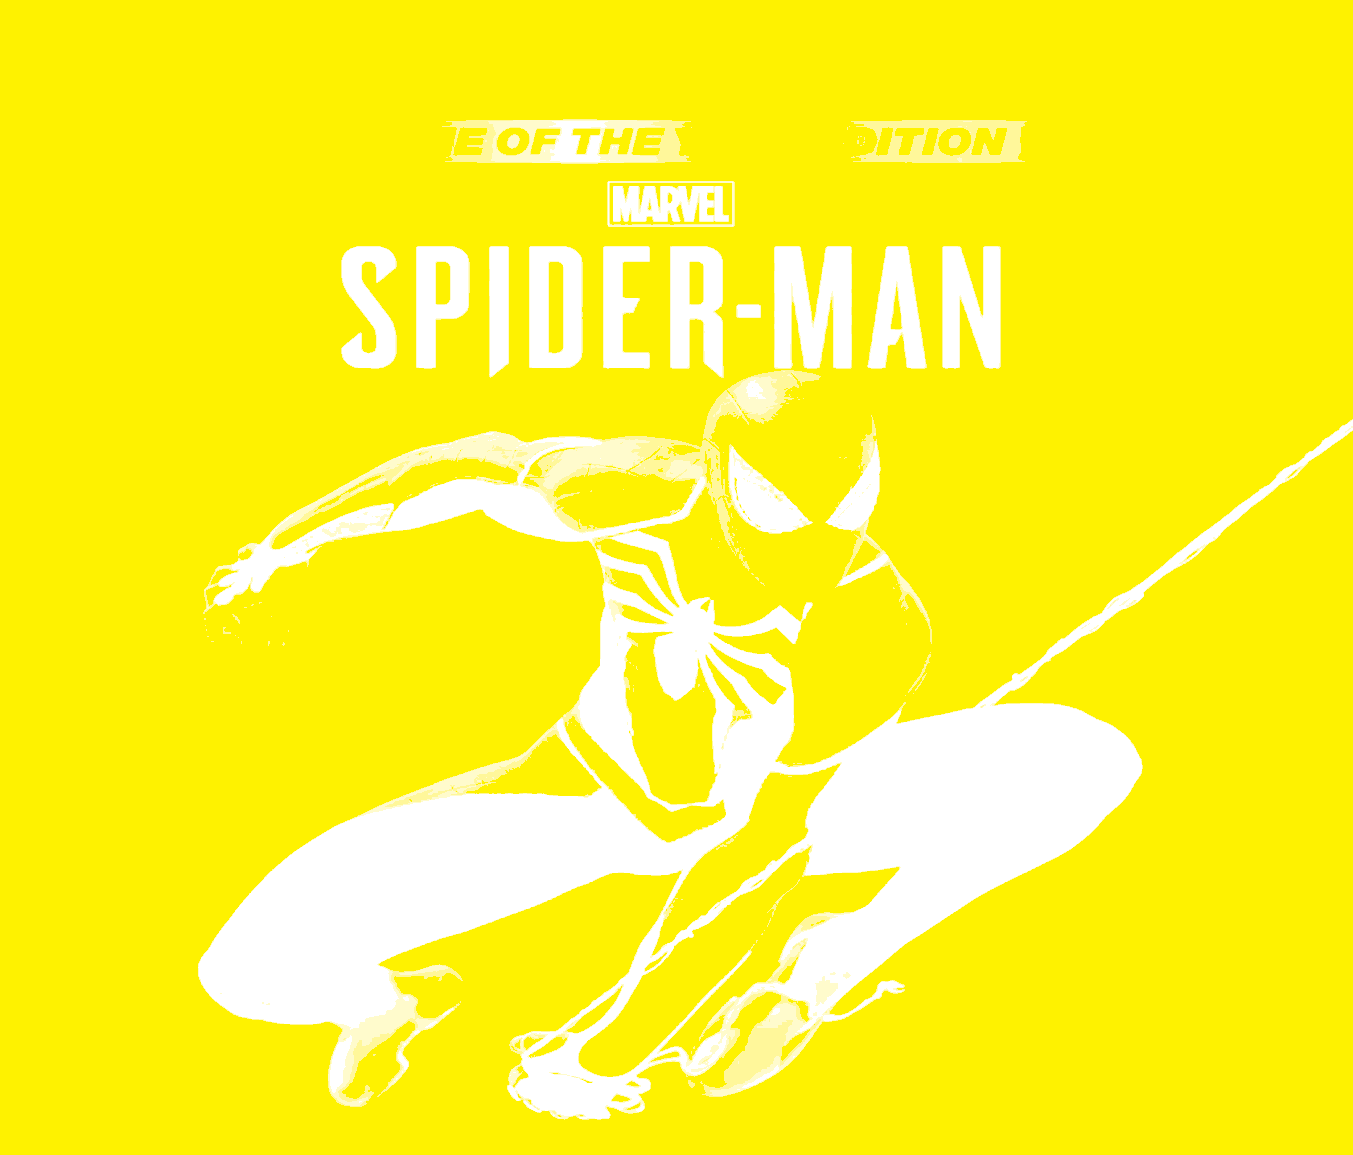
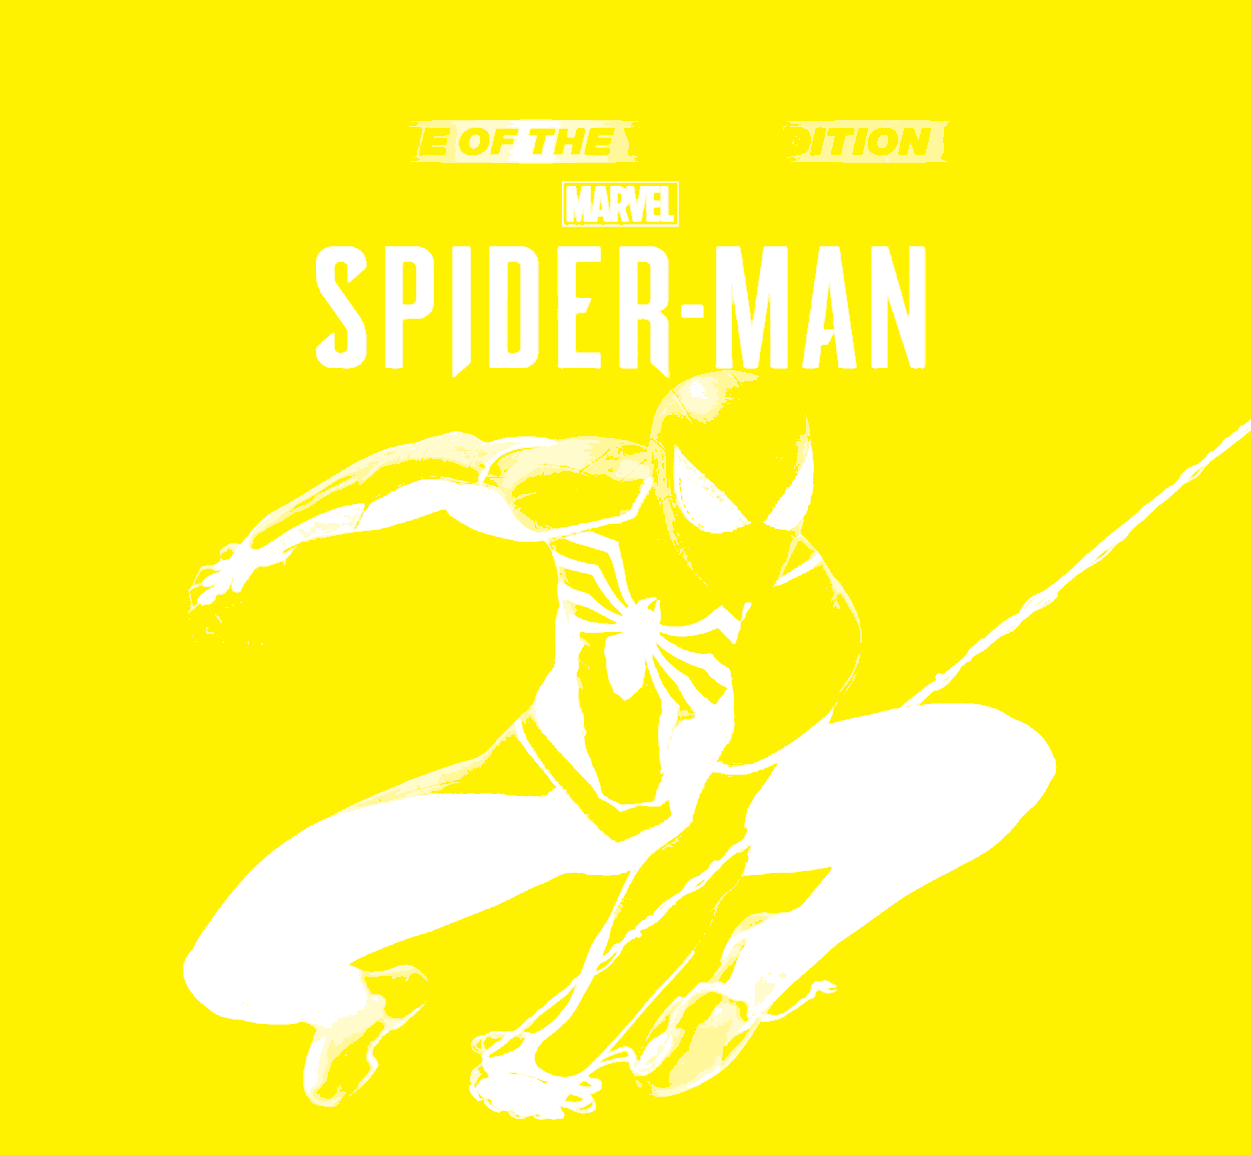
Add outline, grey shade, and adjust screen size

Changed region(s): [[0.4988, 0.4052, 0.5612, 0.4364], [0.3741, 0.9039, 0.4053, 0.9351]]

diff --git a/README.md b/README.md
@@ -1,47 +1,93 @@
 # Ben-Day-Dots-Shading
-My attempt to achieve ben-day dots effect in comic book.
 
-|  | Yellow | Magenta | Cyan | Black |
-| :---: | :---: | :---: | :---: | :---: |
-| Single | ![yellow single pass](images/super-man/yellow.png) | ![magenta single pass](images/super-man/magenta.png) | ![cyan single pass](images/super-man/cyan.png) | ![black single pass](images/super-man/black.png) |
-| Progressive | ![yellow single pass](images/super-man/yellow.png) | ![magenta single pass](images/super-man/magenta-p.png) | ![cyan single pass](images/super-man/cyan-p.png) | ![black single pass](images/super-man/black-p.png) |
+## Introduction
 
-## Features
-### [Paper texture](shaders/paper.glsl)
+I came across a series of great articles written by [Legion of Andy](https://legionofandy.com/) describing the history of [Ben Day Dots](https://en.wikipedia.org/wiki/Ben_Day_process), where they were used as a cheap and efficient way to print colors in the newspapers and comic books in the 20th century. So I decided to program it to achieve the same effect over the weekend.
 
-| Before | After |
-| :---: | :---: |
-| ![Before](images/super-man/black-p.png) | ![After](images/super-man/blend-paper.png) |
+|<img src="https://legionofandy.files.wordpress.com/2016/08/panel-screener.jpg" alt="Prince Valiant" width="600">|
+|:---:|
+|*(Image credit: © [Legion of Andy](https://legionofandy.com/))*|
+
+The following diagram is an [experiment](https://legionofandy.com/2016/08/26/ben-day-dots-part-8-1930s-to-1950s-the-golden-age-of-comics/) introduced in Andy's blog (thank you, Andy)! In the old-time, artists will need to prepare 4 versions of the painting in order to print them, one color for each version, i.e. yellow, magenta, cyan, and black. If we print them into the paper in order, we will get a multi-color painting. The first row is what each version looks like, the second column shows the progressive result that we would expect.
+
+|  | Yellow | Magenta | Cyan | Black | Paper texture |
+| :---: | :---: | :---: | :---: | :---: | :---: |
+| Separated | ![yellow single pass](images/super-man/yellow.png) | ![magenta single pass](images/super-man/magenta.png) | ![cyan single pass](images/super-man/cyan.png) | ![black single pass](images/super-man/black.png) | ![After](images/paper.png) |
+| Progressive | ![yellow single pass](images/super-man/yellow.png) | ![magenta single pass](images/super-man/magenta-p.png) | ![cyan single pass](images/super-man/cyan-p.png) | ![black single pass](images/super-man/black-p.png) | ![After](images/super-man/blend-paper.png) |
+
+With only 4 colors (cyan, magenta, yellow, and black, [CMYK](https://en.wikipedia.org/wiki/CMYK_color_model) for short), we can only achieve a total of 7 colors (3 primary colors, 3 secondaries, and black).
+
+|<img src="https://upload.wikimedia.org/wikipedia/commons/thumb/c/c9/CMYK_subtractive_color_mixing.svg/1920px-CMYK_subtractive_color_mixing.svg.png" alt="CMYK" width="200">|
+|:---:|
+|*(Image credit: © [Wikipedia](https://en.wikipedia.org/wiki/CMYK_color_model))*|
+
+Here is where the magic of Ben Day Dots comes in, by printing patterns of various sizes and spacings of dots, artists can control the shade of the color, thus creating more variation of shade. Later I will create the light color (about 25%) with dots, dark color (about 50%) with lines, and solid color (100%) for each primary color.
 
 
-### [Flat shading](shaders/separate.glsl)
+| <img src="https://legionofandy.files.wordpress.com/2015/07/ben-day-patterns-dalgin-p-21-72dpi.jpg" alt="CMYK" width="600"> |<img src="https://legionofandy.files.wordpress.com/2016/08/how-to-color-comics-the-marvel-way_64c_screener.jpg" alt="CMYK" width="400">|
+|:---:| :---: |
+|*(Image credit: © [Legion of Andy](https://legionofandy.com/))*|*(Image credit: © [Legion of Andy](https://legionofandy.com/))*|
 
-| Before | After |
-| :---: | :---: |
-| ![Before](images/spider-man/spider-man.png) | ![After](images/spider-man/spider-man-paper.png) |
 
--  Color separation:
+## Implementation
 
-| | Yellow | Magenta | Cyan | Black |
-| :---: | :---: | :---: | :---: | :---: |
-| Single | ![yellow single pass](images/spider-man/yellow.png) | ![magenta single pass](images/spider-man/magenta.png) | ![cyan single pass](images/spider-man/cyan.png) | ![black single pass](images/spider-man/black.png) |
-| Progressive | ![yellow single pass](images/spider-man/yellow.png) | ![magenta single pass](images/spider-man/magenta-p.png) | ![cyan single pass](images/spider-man/cyan-p.png) | ![black single pass](images/spider-man/black-p.png) |
+### Flat Shade
 
-### [Ben-Day dots](shaders/screen.glsl)
+|<img src="images/spider-man/spider-man.png" alt="Spider Man" width="800">|
+|:---:|
+|*(Image credit: © [PlayStation](https://www.playstation.com/en-us/games/marvels-spider-man/))*|
 
-![color board](images/screens/color_board.png)
+First, We have an image in hand to start. To shade it with Ben Day Dots later, we need to decide which part of the image need to be included for each pass, therefore the first step of the program need to separate the CMYK components of the image, which they will call [color separation]((shaders/separate.glsl)). The basic idea is to convert RGB space to CMYK space then based on the color of each channel, we divide the continuous value into 3 discrete shades (light, dark, and solid). 
 
-- [Composition](shaders/composite.glsl)
+| | Yellow | Magenta | Cyan | Black | Outline |
+| :---: | :---: | :---: | :---: | :---: | :---: |
+| Separated | ![yellow single pass](images/spider-man/yellow.png) | ![magenta single pass](images/spider-man/magenta.png) | ![cyan single pass](images/spider-man/cyan.png) | ![black single pass](images/spider-man/black.png) | ![black outline](images/spider-man/outline.png) |
+| Progressive | ![yellow single pass](images/spider-man/yellow.png) | ![magenta single pass](images/spider-man/magenta-p.png) | ![cyan single pass](images/spider-man/cyan-p.png) | ![black single pass](images/spider-man/black-p.png) | ![black outline](images/spider-man/outline-p.png) |
 
-| Before | After |
-| :---: | :---: |
-| ![Before](images/spider-man/spider-man-paper.png)  | ![After](images/spider-man/spider-man-dots.png)|
+
+For black, in particular, I added the option to include [outline](shaders/outline.glsl) into the shading, which is computed using central differences.
+
+The results is shown below:
+
+| Original | Flat Shade | With Outline |
+| :---: | :---: | :---: |
+| ![Origianl](images/spider-man/spider-man.png) | ![Flat Shade](images/spider-man/black-p.png) | ![With Outline](images/spider-man/outline-p.png)  |
+
+### Shade with Ben-Day Dots
+
+By vertically and horizontally repeating dots (small circles) and varying their spacing we can approximate the [shade (called screen)](shaders/screen.glsl) that we want:
+
+|<img src="images/screens/color_board.png" alt="Color board" width="800">|
+|:---:|
+| *Color Board: approximate shade using dots followed by actual shade for each color, 3 shades for each* |
+
+Without enforcing anti-aliasing, the dots we draw actaully looks like the dots printed on the newspaper in the old days because they are not perfect! However, to avoid generating unwanted effects (moire patterns), there are some [standards](http://the-print-guide.blogspot.co.uk/2009/05/halftone-screen-angles.html) such as the one below that we can follow to rotate the screen:
+
+|<img src="https://legionofandy.files.wordpress.com/2016/08/screen-angles.jpg" alt="screen angles" width="600">|
+|:---:|
+|*(Image credit: © [Legion of Andy](https://legionofandy.com/))*|*(Image credit: © [Legion of Andy](https://legionofandy.com/))*|
+
+But most of the examples from real comics used the following angles, so I use these instead.
+- Cyan - 135 degrees
+- Yellow - 105 degrees
+- Magenta - 75 degrees
+- Black - 45 degrees
+
+Without further ado, by replacing the flat shade creating before with approximate shade using dots, and [compositing](shaders/composite.glsl) them together with the [paper](shaders/paper.glsl) texture:
+
+| Original | Flat Shade | With Outline |
+| :---: | :---: | :---: |
+| ![Origianl](images/spider-man/spider-man.png) | ![Ben Dots](images/spider-man/spider-man-dots.png) | ![With Outline](images/spider-man/spider-man-paper-outline.png)  |
 
 ## TODOs
 - [ ] Polish thoughts
-  - better flat shading
-  - adjust dot size and space
-  - grey shade?
+  - [ ] better flat shading
+  - [ ] adjust dot size and space
+  - [x] grey shade
+  - [x] appropriate screen angles
+  - [ ] misregister
+  - [ ] yellow is too bright
+- [ ] Write-up
 
 ## References
 1. [BEN DAY DOTS Series](https://legionofandy.com/2013/06/03/roy-lichtenstein-the-man-who-didnt-paint-benday-dots/)
